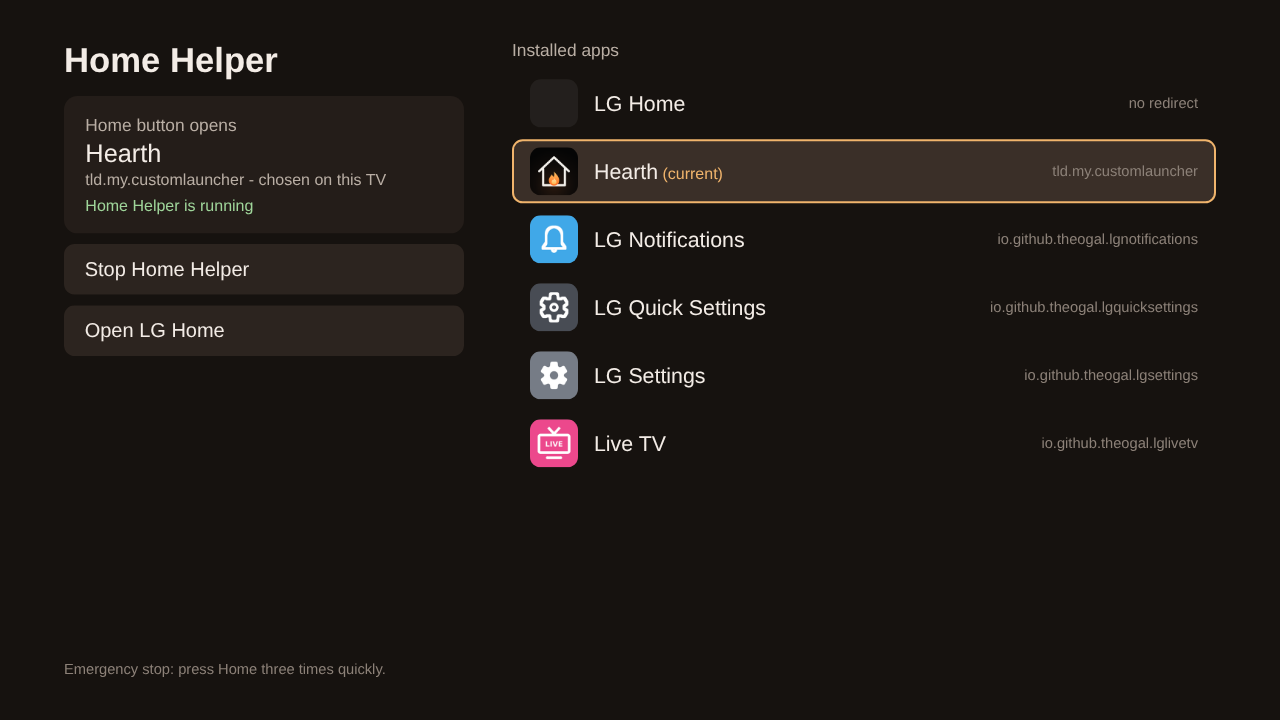
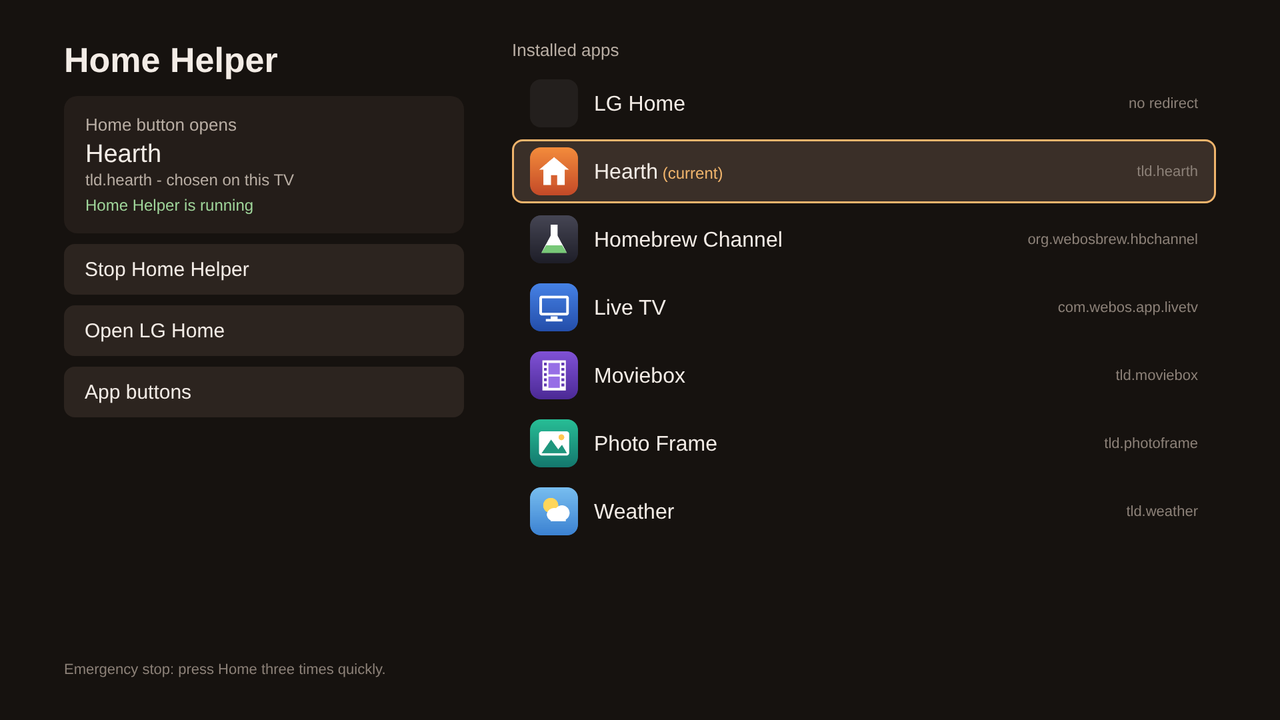
README: example screenshots of the app list and App buttons
Mock-ups of the settings page with example apps and icons.

Claude-Session: https://claude.ai/code/session_01GGffTuPnQ7r8XtEgn8LE92

diff --git a/README.md b/README.md
@@ -89,6 +89,8 @@ Remotes differ from model to model, so Home Helper learns your buttons:
    app doesn't open) and shows **Button learned**
 3. Pick the app that button should open
 
+![Home Helper Settings showing learned App buttons](docs/settings-app-buttons.png)
+
 Mapped buttons are listed under **App buttons**. Choose one to see what you
 can do with it: **Rename this button** to call it something you'll recognise
 later (like the logo on it), **Remap this button** to choose a different app
